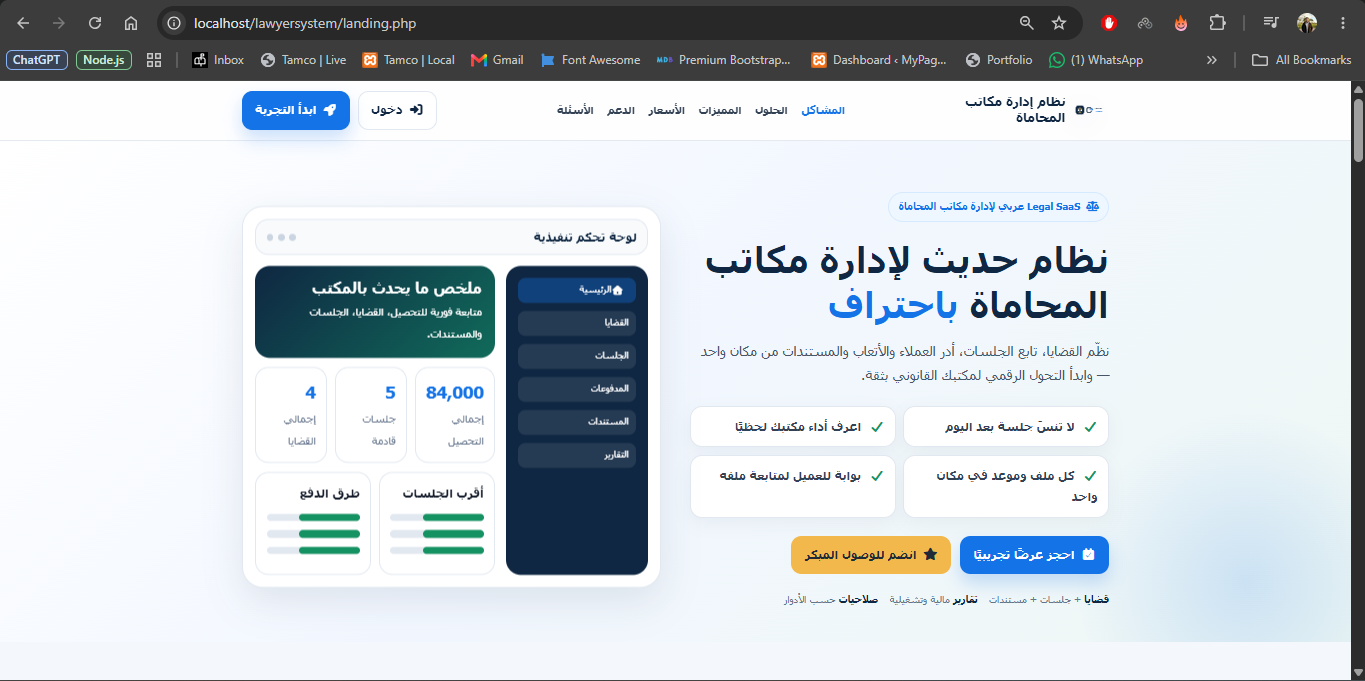
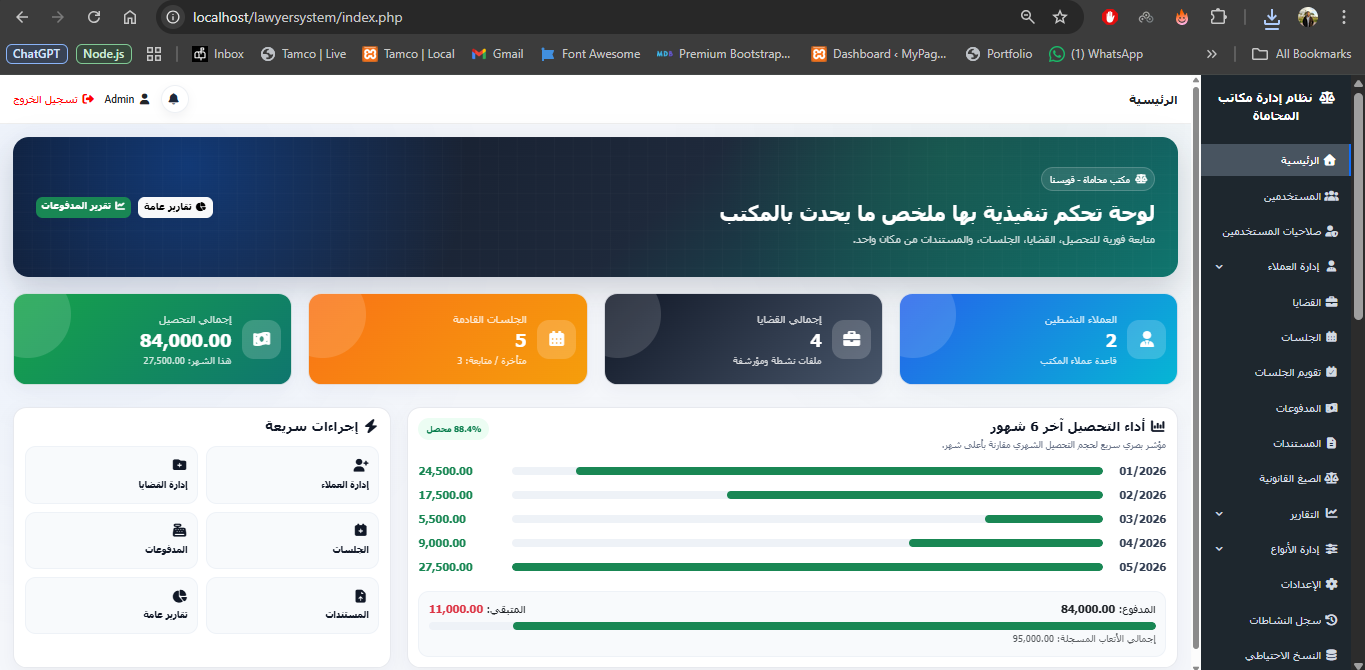
upadte lawyer image

diff --git a/index.html b/index.html
@@ -217,10 +217,10 @@
                 <img src="img/css.png" alt="css" />
                 <div class="skills__name">CSS</div>
               </div>
-              <div class="skills__data">
+              <!-- <div class="skills__data">
                 <img src="img/sass.png" alt="" />
                 <div class="skills__name">Sass</div>
-              </div>
+              </div> -->
               <div class="skills__data">
                 <img src="img/github.png" alt="" />
                 <div class="skills__name">Git/Github</div>
